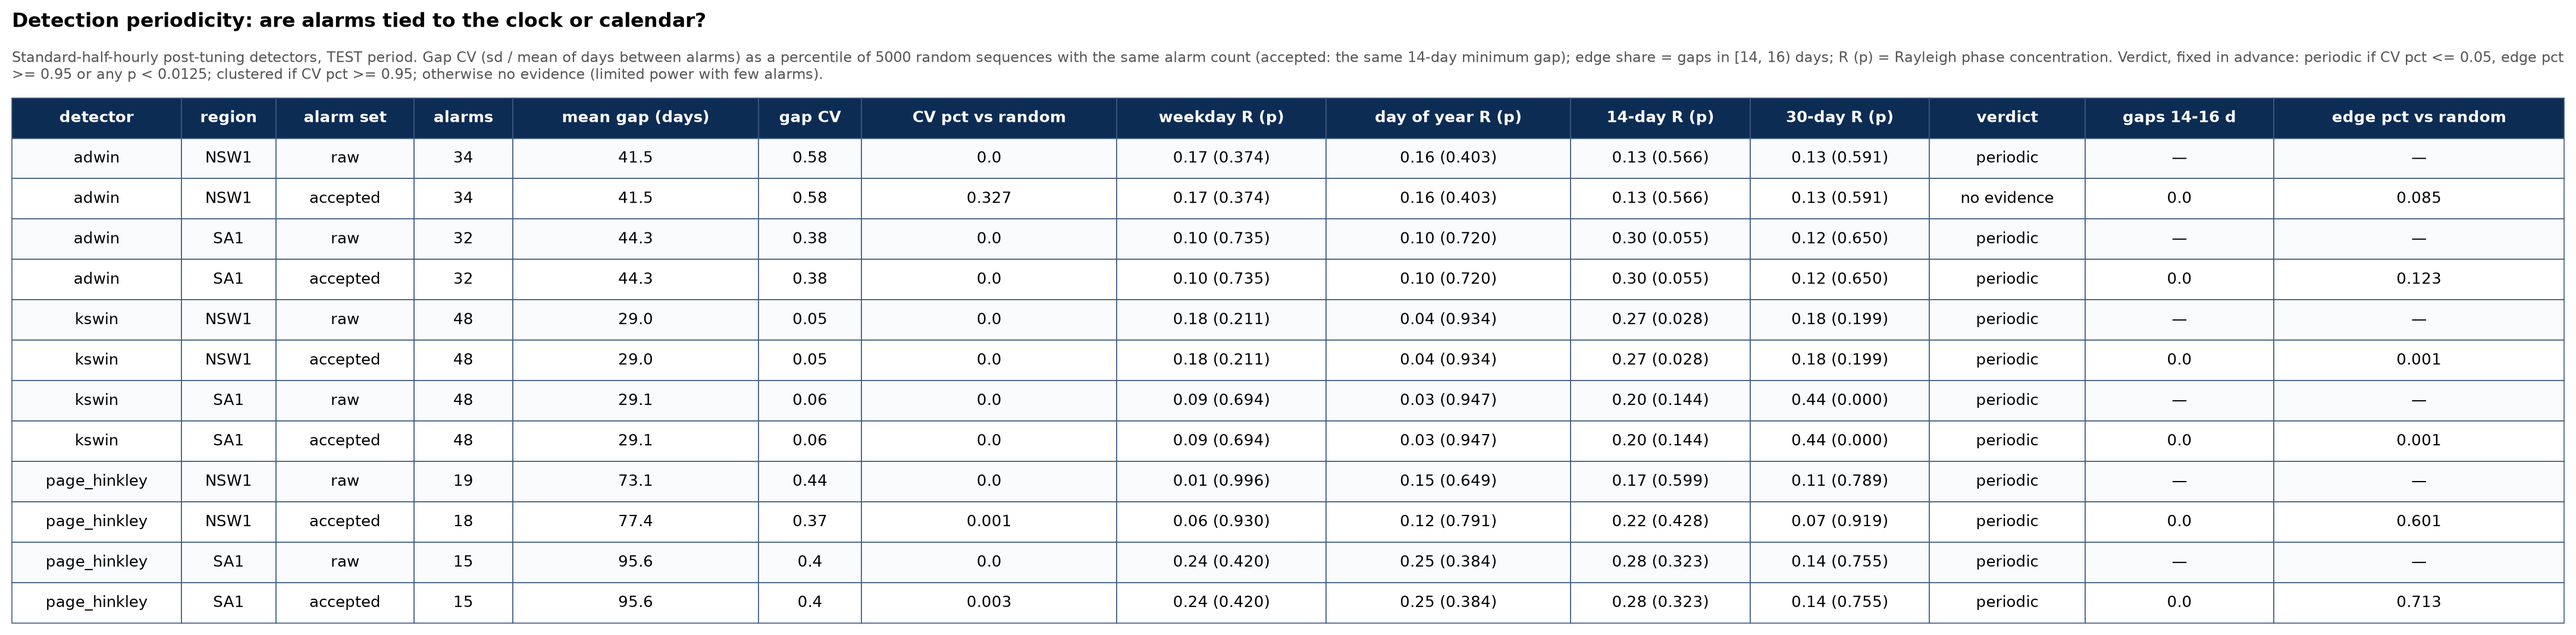
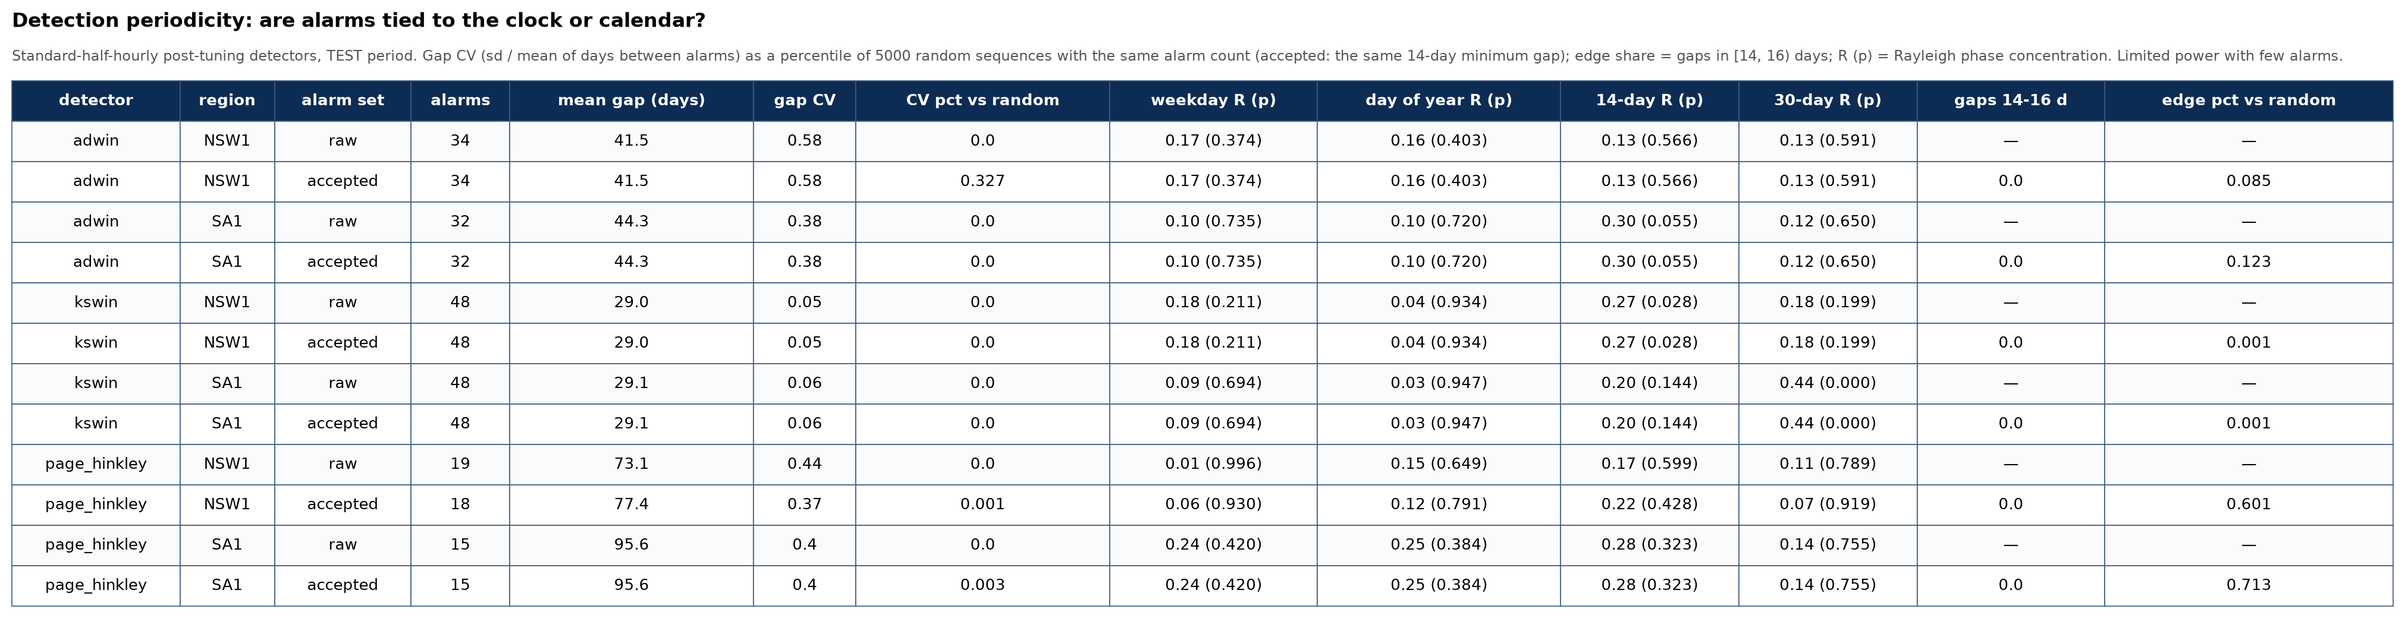
add: record the calibration run hash in each uncertainty run's config for traceability

diff --git a/experiments/run/detection/check_detection_periodicity.py b/experiments/run/detection/check_detection_periodicity.py
@@ -16,11 +16,8 @@ REFRACTORY_PERIOD debounce, the ones that trigger retraining) -- this reports:
     phase R (p)   Rayleigh test of alarm phase in four cycles: day of week,
                   day of year, a fixed 14-day and a fixed 30-day period.
 
-Verdict (fixed before running): "periodic" if the gap CV is below the 5th
-random percentile, the edge share is above the 95th, or any cycle has
-p < 0.05 / 4; otherwise "clustered" if the gap CV is above the 95th
-percentile; otherwise "no evidence". With 15-50 alarms per detector the
-tests have limited power, so "no evidence" is not proof of no periodicity.
+The table lists these metrics only. With 15-50 alarms per detector the tests
+have limited power.
 
 Reads the saved raw_ / accepted_detections files; writes
 results/tables/detection_periodicity/detection_periodicity.{csv,png}.
@@ -49,7 +46,6 @@ from experiments.run.detection.standard_stream_common import TEST_START
 
 SPLIT_ID = "aemo_detect_standard_half_hourly_post_tune_v1"
 N_SIM = 5000
-ALPHA = 0.05
 EDGE_DAYS = (14, 16)  # [refractory, refractory + 2 days)
 # (label, period in days, phase origin)
 CYCLES = (
@@ -80,7 +76,7 @@ def assess(timestamps: pd.DatetimeIndex, span_days: float, accepted: bool) -> di
     min_gap = REFRACTORY_PERIOD / pd.Timedelta(days=1) if accepted else 0.0
     row = {"alarms": len(days)}
     if len(days) < 3:
-        return row | {"verdict": "too few alarms"}
+        return row
 
     sims = evaluation.simulate_random_alarm_days(len(days), span_days, min_gap, N_SIM, seed=0)
     cv = evaluation.calculate_gap_cv(days)
@@ -92,25 +88,15 @@ def assess(timestamps: pd.DatetimeIndex, span_days: float, accepted: bool) -> di
         "CV pct vs random": round(percentile(cv, cv_null), 3),
     }
 
-    periodic = row["CV pct vs random"] <= ALPHA
     if accepted:
         edge = evaluation.calculate_gap_share(days, *EDGE_DAYS)
         edge_null = np.array([evaluation.calculate_gap_share(s, *EDGE_DAYS) for s in sims])
         edge_pct = percentile(edge, edge_null)
         row |= {"gaps 14-16 d": round(edge, 2), "edge pct vs random": round(edge_pct, 3)}
-        periodic |= edge_pct >= 1 - ALPHA
 
     for label, period, origin in CYCLES:
         r, p = evaluation.calculate_phase_concentration(timestamps, period, origin)
         row[f"{label} R (p)"] = f"{r:.2f} ({p:.3f})"
-        periodic |= p < ALPHA / len(CYCLES)
-
-    if periodic:
-        row["verdict"] = "periodic"
-    elif row["CV pct vs random"] >= 1 - ALPHA:
-        row["verdict"] = "clustered"
-    else:
-        row["verdict"] = "no evidence"
     return row
 
 
@@ -146,8 +132,7 @@ def main() -> None:
             "Standard-half-hourly post-tuning detectors, TEST period. Gap CV (sd / mean of days between "
             f"alarms) as a percentile of {N_SIM} random sequences with the same alarm count (accepted: the "
             "same 14-day minimum gap); edge share = gaps in [14, 16) days; R (p) = Rayleigh phase "
-            "concentration. Verdict, fixed in advance: periodic if CV pct <= 0.05, edge pct >= 0.95 or any "
-            "p < 0.0125; clustered if CV pct >= 0.95; otherwise no evidence (limited power with few alarms)."
+            "concentration. Limited power with few alarms."
         ),
     )
     print(f"wrote {image}")

diff --git a/experiments/run/uncertainty/run_aemo_uq_replay.py b/experiments/run/uncertainty/run_aemo_uq_replay.py
@@ -188,6 +188,7 @@ def replay_one(
     for uq_method, (lower, upper, description, seconds) in methods.items():
         config = {
             "source_config_hash": source_hash,
+            "calibration_config_hash": calibration.parent.name,
             "issuance_step": ISSUANCE_STEP,
             "worst_coverage_window": WORST_COVERAGE_WINDOW,
             "uq": description,
